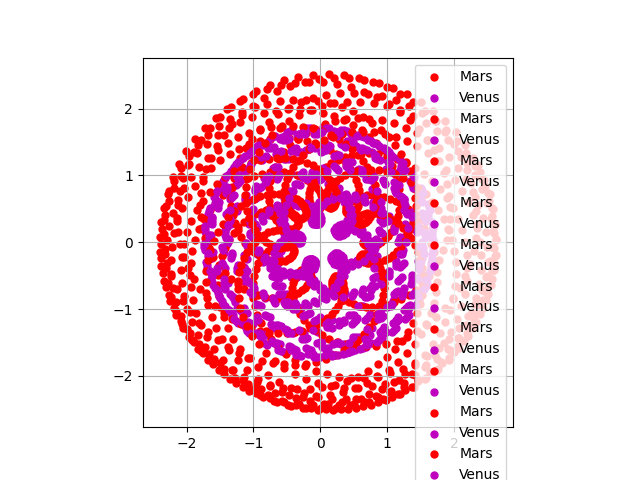
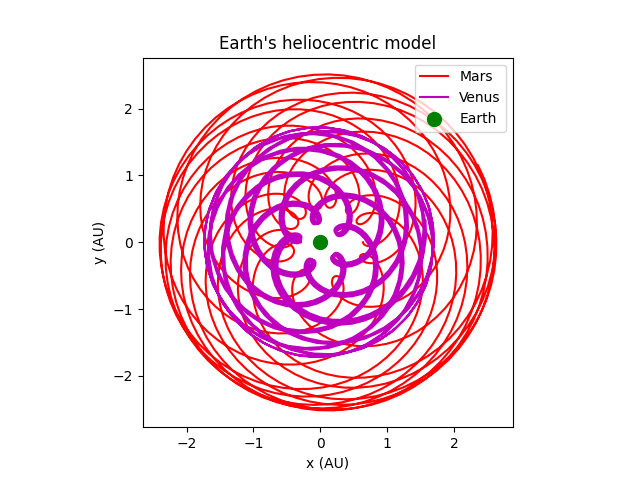
- Heliocentric model optimised

diff --git a/solarkit/viewer.py b/solarkit/viewer.py
@@ -3,6 +3,7 @@ from typing import Optional, List, Dict
 
 
 import matplotlib.pyplot as plt
+import numpy as np
 
 
 import utils
@@ -69,7 +70,8 @@ class Viewer:
             x_left, x_right = self.ax.get_xlim()
             y_low, y_high = self.ax.get_ylim()
             self.ax.set_aspect(abs((x_right - x_left)/(y_low - y_high)) * RATIO)
-    
+            
+        
     def __str__(self) -> str:
         return f"Planets: {self.system.__str__()}\n3D: {self.compute_3D}\nAnimation FPS: {self.target_fps}"
         
@@ -117,16 +119,20 @@ class Viewer:
             # Draw 2D
             self.ax.scatter(planet_data["x"], planet_data["y"], label=planet_data["name"], s=25, c=planet_data["c"])
              
-    def plot_sun(self) -> None:
+    def plot_centre(self, name: str, colour: str) -> None:
         """
-        Draw Sun on axes on self.ax
+        Draw the centre of the model, can be a sun or a planet when using heliocentric model
+
+        Args:
+            name (str): Legend label
+            colour (str): Plot colour
         """
 
         if self.compute_3D:
-            self.ax.scatter(0, 0, 0, s=100, label="Sun", c="y")
+            self.ax.scatter(0, 0, 0, s=100, label=name, c=colour)
             
         else:
-            self.ax.scatter(0, 0, s=100, label="Sun", c="y")
+            self.ax.scatter(0, 0, s=100, label=name, c=colour)
       
     def show_orbits(self, save_figure: bool = False) -> None:
         """
@@ -135,7 +141,7 @@ class Viewer:
         Args:
             save_figure (bool, optional): Save the final figure to an image (The image will be saved in /figures). Defaults to False.
         """
-        self.plot_sun()
+        self.plot_centre(name="Sun", colour="y")
         
         for planet_orbit_data in self.orbit_data:
             self.plot_orbit(orbit_data=planet_orbit_data)  
@@ -160,7 +166,7 @@ class Viewer:
         """
         
         while self.t < self.tmax:
-            self.plot_sun()
+            self.plot_centre(name="Sun", colour="y")
             
             for planet_orbit_data in self.orbit_data:
                 self.plot_orbit(orbit_data=planet_orbit_data)    
@@ -216,6 +222,13 @@ class Viewer:
             self.plot_orbit(orbit_data=planet_orbit_data)
         
         
+        plt.title(f"{self.system.system_name}'s spinograph")
+        self.ax.set_xlabel('x (AU)')
+        self.ax.set_ylabel('y (AU)')
+        
+        if self.compute_3D:
+                self.ax.set_zlabel('z (AU)')
+        
         if save_figure:
             utils.save_figure(name=f"{self.system.system_name}'s spinograph")
             
@@ -254,16 +267,33 @@ class Viewer:
         
 
             plt.pause(1/self.target_fps)
-            
+        
+        plt.title(f"{self.system.system_name}'s spinograph")
+        self.ax.set_xlabel('x (AU)')
+        self.ax.set_ylabel('y (AU)')
+        
+        if self.compute_3D:
+            self.ax.set_zlabel('z (AU)')
+        
         if save_figure:
             utils.save_figure(name=f"{self.system.system_name}'s spinograph")
             
     def heliocentric_model(self, origin_planet_name: str, save_figure: bool = False) -> None:
         
-        self.tmax *= 10
-        self.dt = self.tmax / 1234
+        num_points = 1234
         
-        while self.t < self.tmax:
+        self.tmax *= 10
+        self.dt = self.tmax / num_points
+        
+        
+        
+        x = np.zeros((len(self.chosen_planets), num_points))
+        y = np.zeros((len(self.chosen_planets), num_points))
+
+        if self.compute_3D:
+            z = np.zeros((len(self.chosen_planets), num_points))
+        
+        for i in range(num_points):
             origin_planet_data = self.system.planets[origin_planet_name].compute_position(compute_3D=self.compute_3D, t=self.t)
             
             planets_data = [planet.compute_position(compute_3D=self.compute_3D, t=self.t) for planet in self.chosen_planets]
@@ -271,14 +301,39 @@ class Viewer:
             relative_planets_data = [self.system.compute_relative_vector(origin_planet_data=origin_planet_data, target_planet_data=target_planet_data) for target_planet_data in planets_data]
             
             # Improvement: compute all positions and then plot
-            for planet_data in relative_planets_data:
-                self.plot_planet(planet_data=planet_data)
+            for j, planet_data in enumerate(relative_planets_data):
+                x[j][i] = planet_data["x"]
+                y[j][i] = planet_data["y"]
                 
+                if self.compute_3D:
+                    z[j][i] = planet_data["z"]
+                    
             self.t += self.dt
         
-    
-        #plt.legend()
-        plt.grid()
+
+        
+        if self.compute_3D:
+            for planet_x, planet_y, planet_z, planet in zip(x, y, z, self.chosen_planets):
+                self.ax.plot(planet_x, planet_y, planet_z, label=planet.name, c=planet.colour)
+                
+            
+                
+        else:
+            for planet_x, planet_y, planet in zip(x, y, self.chosen_planets):
+                self.ax.plot(planet_x, planet_y, label=planet.name, c=planet.colour)
+            
+
+        self.plot_centre(name=origin_planet_name, colour=origin_planet_data["c"])
+
+        
+        plt.title(f"{origin_planet_name}'s heliocentric model")
+        self.ax.set_xlabel('x (AU)')
+        self.ax.set_ylabel('y (AU)')
+        
+        if self.compute_3D:
+            self.ax.set_zlabel('z (AU)')
+        
+        plt.legend()
         
         if save_figure: 
             utils.save_figure(name=f"{origin_planet_name}'s heliocentric model")

diff --git a/solarkit/playground.py b/solarkit/playground.py
@@ -2,5 +2,6 @@ from viewer import Viewer
 from utils import load_system
 
 system = load_system(path="solarkit\planet_data.csv")
-system_viewer = Viewer(system=system, planets_to_use=["Mars", "Venus"])
+#print(system.planets)
+system_viewer = Viewer(system=system, planets_to_use=["Mars", "Venus"], compute_3D=False)
 system_viewer.heliocentric_model(origin_planet_name="Earth", save_figure=True)
